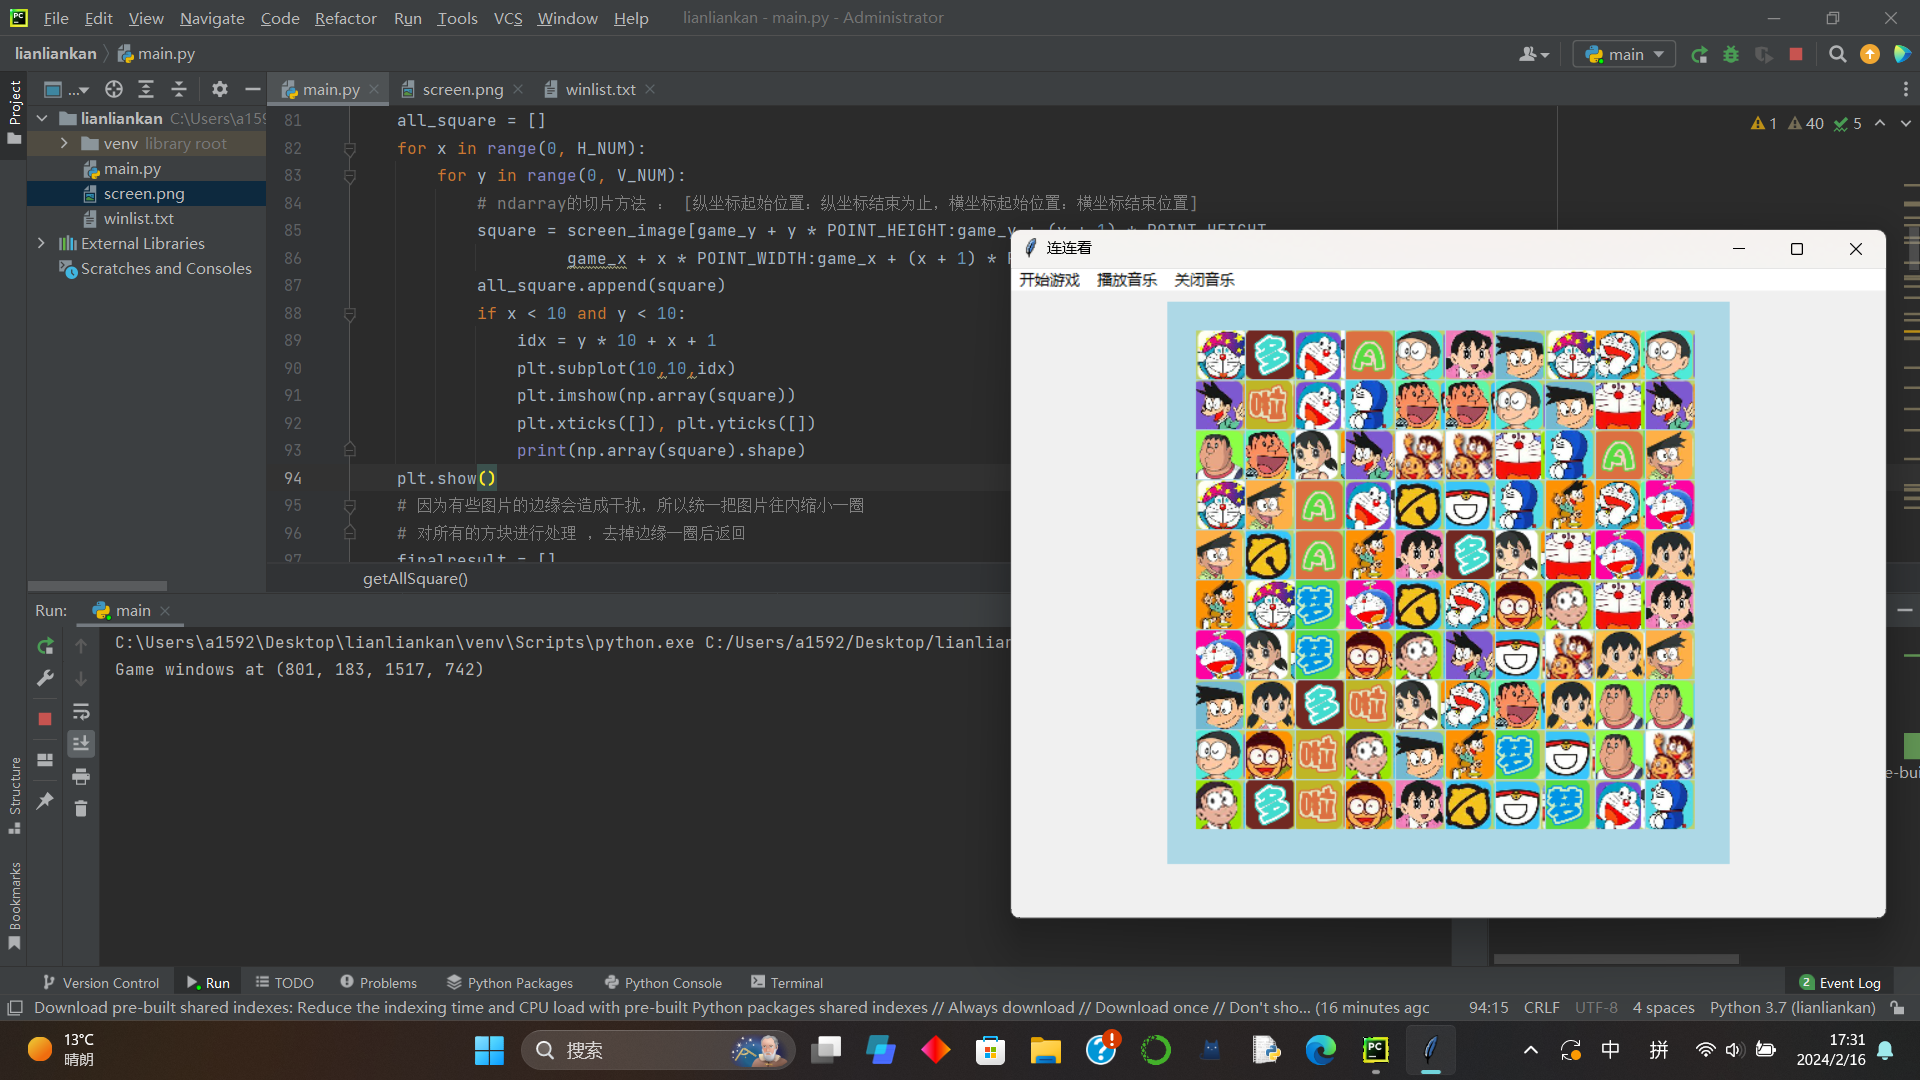
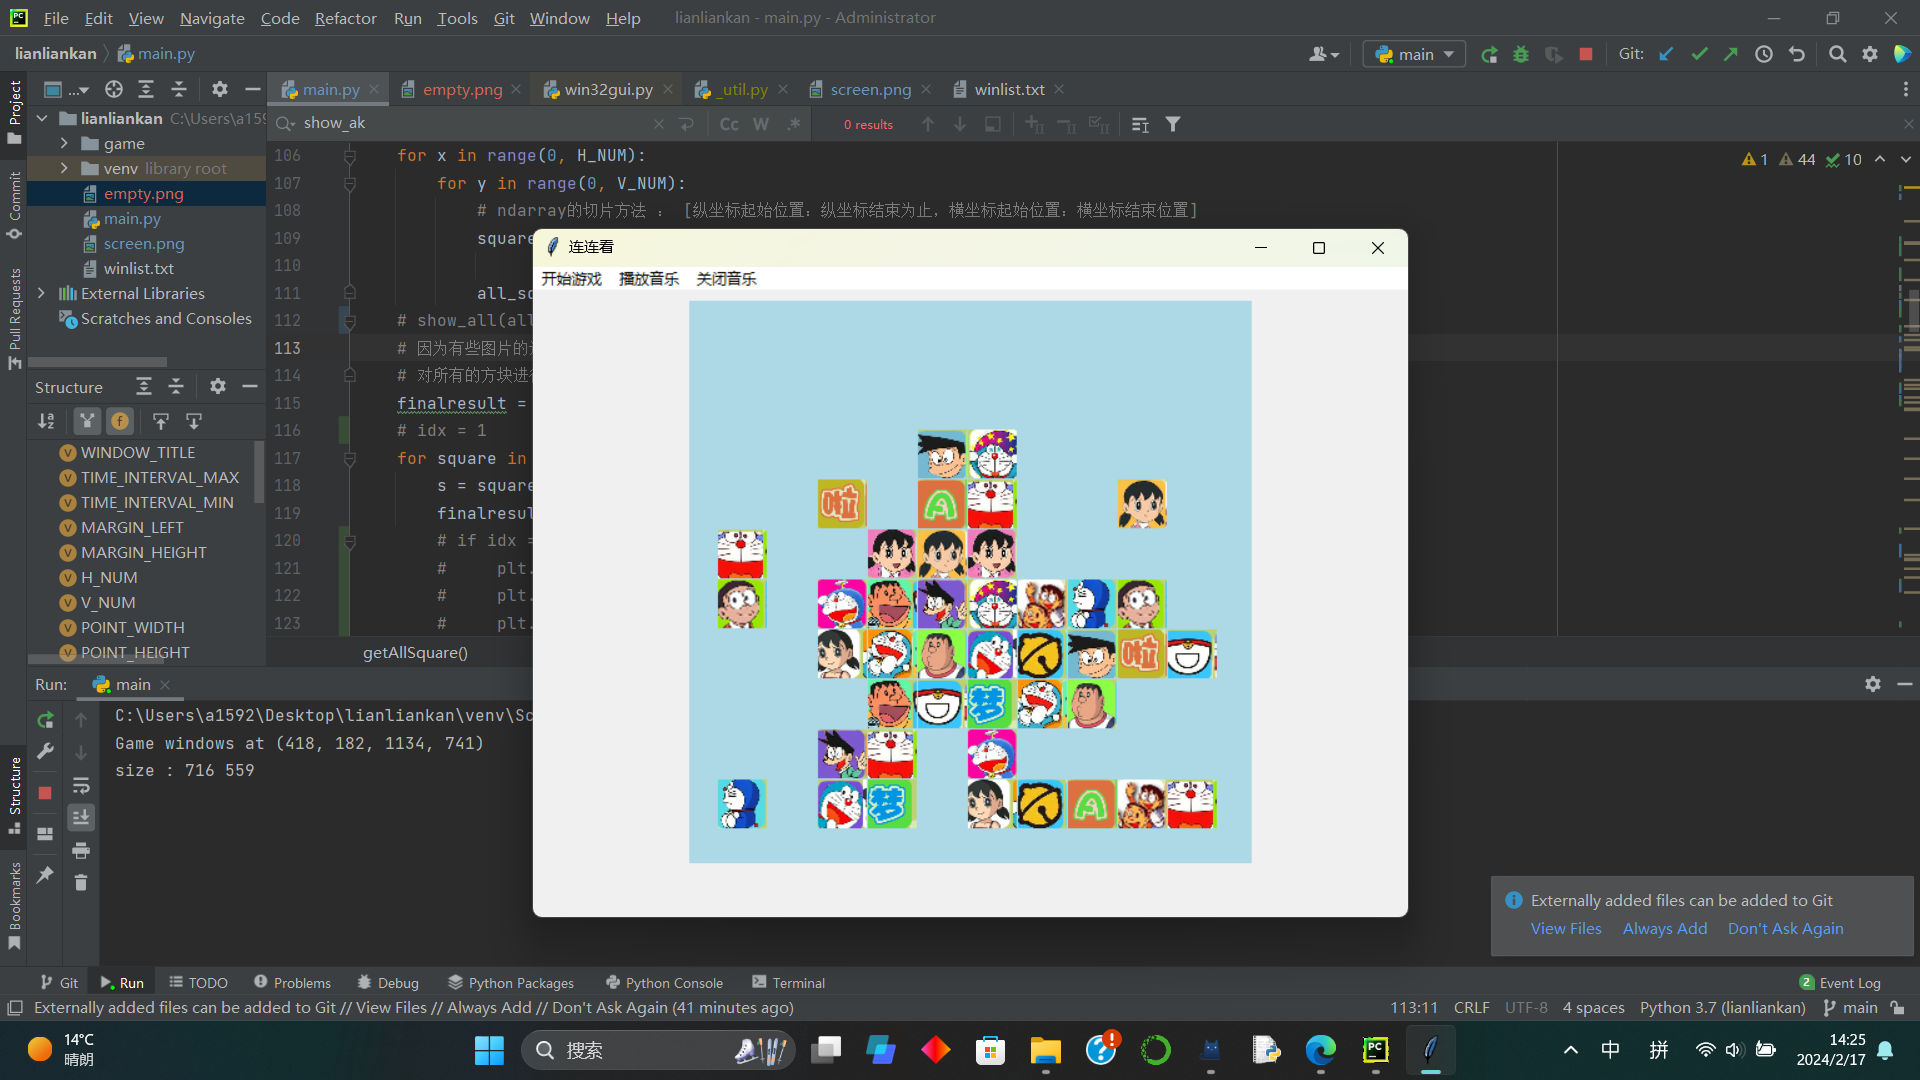
ok in model game

diff --git a/main.py b/main.py
@@ -8,6 +8,7 @@ from PIL import ImageGrab
 import time
 import random
 import matplotlib.pyplot as plt
+import matplotlib.image as mpimg
 
 # 窗体标题  用于定位游戏窗体
 WINDOW_TITLE = "连连看"
@@ -15,7 +16,7 @@ WINDOW_TITLE = "连连看"
 TIME_INTERVAL_MAX = 0.06
 TIME_INTERVAL_MIN = 0.1
 # 游戏区域距离顶点的x偏移
-MARGIN_LEFT = 395
+MARGIN_LEFT = 297
 # 游戏区域距离顶点的y偏移
 MARGIN_HEIGHT = 145
 # 横向的方块数量
@@ -52,8 +53,24 @@ def getGameWindow():
     win32gui.SetForegroundWindow(window)
     pos = win32gui.GetWindowRect(window)
     print("Game windows at " + str(pos))
+    width = pos[2] - pos[0]
+    height = pos[3] - pos[1]
+    print("size :", width, height)
     return (pos[0], pos[1])
 
+def show_all(images):
+    cnt = 0
+    for square in images:
+        x = cnt // 10
+        y = cnt % 10
+        idx = y * 10 + x + 1
+        plt.subplot(10, 10, idx)
+        plt.imshow(np.array(square))
+        plt.xticks([]), plt.yticks([])
+
+        cnt += 1
+
+    plt.show()
 
 def getScreenImage():
     print('Shot screen...')
@@ -65,6 +82,13 @@ def getScreenImage():
     return cv2.imread("screen.png")
 
 
+def get_empty_square():
+    image = cv2.imread("empty.png")
+    plt.imshow(image)
+    plt.show()
+    return image[SUB_LT_Y:SUB_RB_Y, SUB_LT_X:SUB_RB_X]
+
+
 def getAllSquare(screen_image, game_pos):
     print('Processing pictures...')
     # 通过游戏窗体定位
@@ -72,45 +96,53 @@ def getAllSquare(screen_image, game_pos):
     game_x = game_pos[0] + MARGIN_LEFT
     game_y = game_pos[1] + MARGIN_HEIGHT
     print(game_pos)
-    print((game_x,game_y))
     # 从游戏区域左上开始
     # 把图像按照具体大小切割成相同的小块
     # 切割标准是按照小块的横纵坐标
     # plt.imshow(screen_image)
     # plt.show()
     all_square = []
+
     for x in range(0, H_NUM):
         for y in range(0, V_NUM):
             # ndarray的切片方法 ： [纵坐标起始位置：纵坐标结束为止，横坐标起始位置：横坐标结束位置]
             square = screen_image[game_y + y * POINT_HEIGHT:game_y + (y + 1) * POINT_HEIGHT,
                      game_x + x * POINT_WIDTH:game_x + (x + 1) * POINT_WIDTH]
             all_square.append(square)
-            if x < 10 and y < 10:
-                idx = y * 10 + x + 1
-                plt.subplot(10,10,idx)
-                plt.imshow(np.array(square))
-                plt.xticks([]), plt.yticks([])
-                print(np.array(square).shape)
-    plt.show()
+    # show_all(all_square)
     # 因为有些图片的边缘会造成干扰，所以统一把图片往内缩小一圈
     # 对所有的方块进行处理 ，去掉边缘一圈后返回
     finalresult = []
+    # idx = 1
     for square in all_square:
         s = square[SUB_LT_Y:SUB_RB_Y, SUB_LT_X:SUB_RB_X]
         finalresult.append(s)
+        # if idx == 1:
+        #     plt.figure(figsize=(5, 5))
+        #     plt.imshow(np.array(s))
+        #     plt.xticks([]), plt.yticks([])
+        #     plt.savefig("empty.png", bbox_inches="tight", pad_inches=-0.1, dpi=13.7)
+        #     plt.show()
+        #     idx = 2
     return finalresult
 
 
 # 判断列表中是否存在相同图形
 # 存在返回进行判断图片所在的id
 # 否则返回-1
+def same_image(img1,img2):
+    b = np.subtract(img1, img2)
+    b[b == 255] = 0
+    b[b == 1] = 0
+    # 若标准差全为0 即两张图片没有区别
+    return not np.any(b)
+
 def isImageExist(img, img_list):
     i = 0
     for existed_img in img_list:
         # 两个图片进行比较 返回的是两个图片的标准差
-        b = np.subtract(existed_img, img)
-        # 若标准差全为0 即两张图片没有区别
-        if not np.any(b):
+
+        if same_image(img,existed_img):
             return i
         i = i + 1
     return -1
@@ -119,28 +151,25 @@ def isImageExist(img, img_list):
 def getAllSquareTypes(all_square):
     print("Init pictures types...")
     types = []
-    # number列表用来记录每个id的出现次数
-    number = []
     # 当前出现次数最多的方块
     # 这里我们默认出现最多的方块应该是空白块
-    nowid = 0
+    types.append(get_empty_square())
+    # nowid = 0
     for square in all_square:
-        input()  #TODO: remove it
         nid = isImageExist(square, types)
         # 如果这个图像不存在则插入列表
         if nid == -1:
             types.append(square)
-            number.append(1)
-        else:
-            # 若这个图像存在则给计数器 + 1
-            number[nid] = number[nid] + 1
-            if (number[nid] > number[nowid]):
-                nowid = nid
+        # else:
+        #     # 若这个图像存在则给计数器 + 1
+        #     number[nid] = number[nid] + 1
+        #     # if number[nid] > number[nowid]:
+        #     #     nowid = nid
     # 更新EMPTY_ID
     # 即判断在当前这张图中的空白块id
-    global EMPTY_ID
-    EMPTY_ID = nowid
-    print('EMPTY_ID = ' + str(EMPTY_ID))
+    # global EMPTY_ID
+    # EMPTY_ID = nowid
+    # print('EMPTY_ID = ' + str(EMPTY_ID))
     return types
 
 
@@ -152,20 +181,24 @@ def getAllSquareRecord(all_square_list, types):
     print("Change map...")
     record = []
     line = []
+    record.append([EMPTY_ID for i in range(V_NUM+2)])
     for square in all_square_list:
         num = 0
         for type in types:
-            res = cv2.subtract(square, type)
-            if not np.any(res):
+            if same_image(type, square):
                 line.append(num)
                 break
             num += 1
         # 每列的数量为V_NUM
         # 那么当当前的line列表中存在V_NUM个方块时我们认为本列处理完毕
         if len(line) == V_NUM:
-            print(line);
+            line.insert(0,EMPTY_ID)
+            line.append(EMPTY_ID)
             record.append(line)
             line = []
+    record.append([EMPTY_ID for i in range(V_NUM + 2)])
+    for line in record:
+        print(line)
     return record
 
 
@@ -275,6 +308,7 @@ def turnTwiceCheck(x1, y1, x2, y2, result):
 
 def autoRelease(result, game_x, game_y):
     # 遍历地图
+    # time.sleep(3)
     for i in range(0, len(result)):
         for j in range(0, len(result[0])):
             # 当前位置非空
@@ -288,14 +322,14 @@ def autoRelease(result, game_x, game_y):
                                 # 消除的两个位置设置为空
                                 result[i][j] = EMPTY_ID
                                 result[m][n] = EMPTY_ID
-                                print('Remove ：' + str(i + 1) + ',' + str(j + 1) + ' and ' + str(m + 1) + ',' + str(
-                                    n + 1))
+                                print('Remove ：' + str(i) + ',' + str(j) + ' and ' + str(m) + ',' + str(
+                                    n))
 
                                 # 计算当前两个位置的图片在游戏中应该存在的位置
-                                x1 = game_x + j * POINT_WIDTH
-                                y1 = game_y + i * POINT_HEIGHT
-                                x2 = game_x + n * POINT_WIDTH
-                                y2 = game_y + m * POINT_HEIGHT
+                                x1 = game_x + (j-1) * POINT_WIDTH
+                                y1 = game_y + (i-1) * POINT_HEIGHT
+                                x2 = game_x + (n-1) * POINT_WIDTH
+                                y2 = game_y + (m-1) * POINT_HEIGHT
                                 print("pos: " + str((x1,y1)) + " " + str((x2,y2)))
                                 # 模拟鼠标点击第一个图片所在的位置
                                 win32api.SetCursorPos((x1 + POINT_WIDTH // 2, y1 + POINT_HEIGHT // 2))
@@ -318,12 +352,15 @@ def autoRelease(result, game_x, game_y):
 def autoRemove(squares, game_pos):
     game_x = game_pos[0] + MARGIN_LEFT
     game_y = game_pos[1] + MARGIN_HEIGHT
+    cnt = 0
     # 重复一次消除直到到达最多消除次数
     while True:
         if not autoRelease(squares, game_x, game_y):
             # 当不再有可消除的方块时结束 ， 返回消除数量
-            return
-
+            return cnt
+        # time.sleep(1.0)
+        cnt += 1
+        # input()
 
 if __name__ == '__main__':
     # f = open('winlist.txt', 'w', encoding='utf-8')
@@ -353,6 +390,7 @@ if __name__ == '__main__':
     all_square_list = getAllSquare(screen_image, game_pos)
     # iv. 获取所有类型的图形，并编号
     types = getAllSquareTypes(all_square_list)
+    # print(type(types))
     # v. 讲获取的图片地图转换成数字矩阵
     result = np.transpose(getAllSquareRecord(all_square_list, types))
     # vi. 执行消除 , 并输出消除数量
